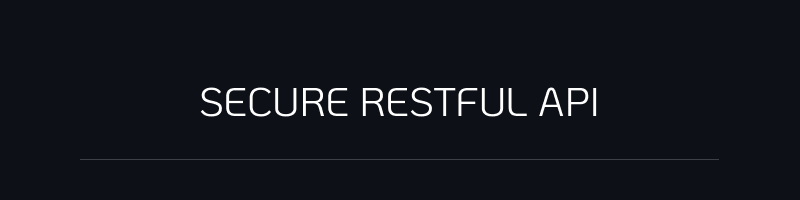
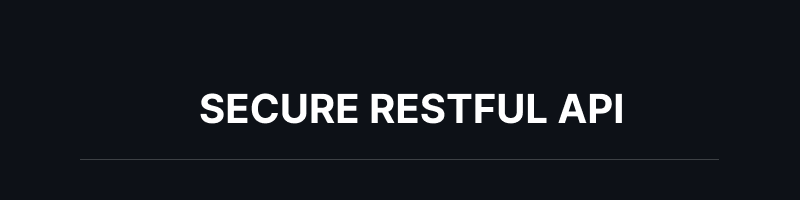
Updated: Imagem de título do readme alterada novamente, e descrição, recursos usados e sumário do projeto adicionados.

Changed region(s): [[0.25, 0.42, 0.7812, 0.63]]

diff --git a/README.md b/README.md
@@ -1,2 +1,64 @@
-
 ![Título](images/ReadmeTitle.png)
+
+Este é um projeto criado com o intuito de aprimorar meus conhecimentos sobre
+desenvolvimento de API's RESTful seguras e eficazes, focando a atenção 
+em questões como validação de dados, autenticação e autorização de usuários com
+Spring Security e JWT. Além disso, foram usados outras dependências e ferramentas 
+para a otimização do desenvolvimento, como o Flyway para o versionamento e melhor
+controle do banco de dados e o Apache Maven para o gerenciamento de dependências. 
+Por fim, estou muito feliz com o resultado final, e espero que este repositório 
+possa te ajudar a extrair um pouco de conhecimento também. E desde já, obrigado.
+
+## O que foi utilizado para desenvolver o projeto:
+
+
+- Java como linguagem de programação;
+- Spring Boot e Spring Security como frameworks;
+- Arquitetura MVC;
+- Principais Dependências:<br>
+*1. DevTools;*<br>
+*2. JPA;*<br>
+*3. JDBC;*<br>
+*4. Flyway;*<br>
+*5. Postgresql;*<br>
+*6. Validation;*<br>
+*7. Jjwt-Api;*<br>
+*8. Jjwt-Impl;*<br>
+*9. Jjwt-Jackson.*<br>
+- IntelliJ como IDE;
+- Postman para testes de requisição.
+
+## Sumário do que será dito no README:
+
+1. Arquitetura MVN;<br>
+1.1. Controllers;<br>
+1.2. Services;<br>
+1.3. Model;<br>
+1.4. Repositories.<br>
+2. Validação de dados;<br>
+   2.1. Validate;<br>
+   2.2 DTO's;<br>
+3. Versionamento de banco de dados;<br>
+   3.1 Flyway;<br>
+   3.2 Migrations;<br>
+4. Configuração de segurança;<br>
+   4.1 Spring Security;<br>
+   4.2 Vulnerabilidades de API's;<br>
+   4.3 SecurityFilterChain do Spring Security;<br>
+5. Autenticação de usuários;<br>
+   5.1 UserDetails e UserDetailsService;<br>
+   5.2 Classe UsernamePasswordAuthenticationToken;<br>
+   5.3 Provedores de autenticação do Spring Security;<br>
+   5.4 Gerenciador de autenticação do Spring Security;<br>
+6. Geração e validação de tokens (JWT);
+   6.1 JwtService gerenciar os tokens (JWT);<br>
+   6.2 Geração de tokens (JWT);<br>
+   6.3 Validação de tokens (JWT) com JwtFilter.<br>
+
+
+
+
+
+
+
+
